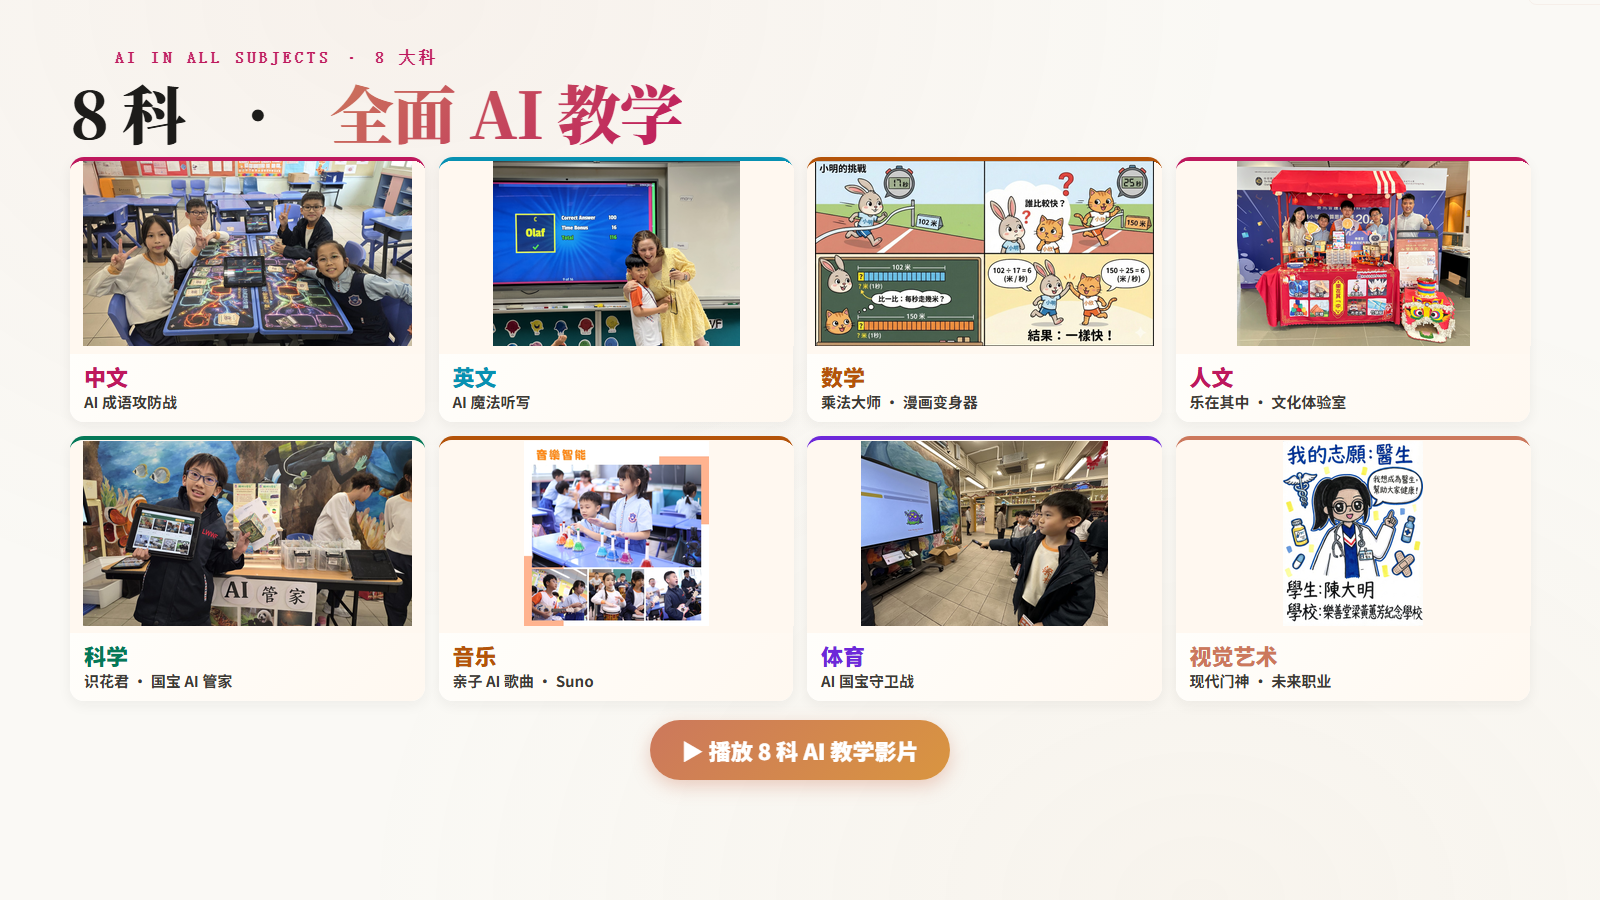
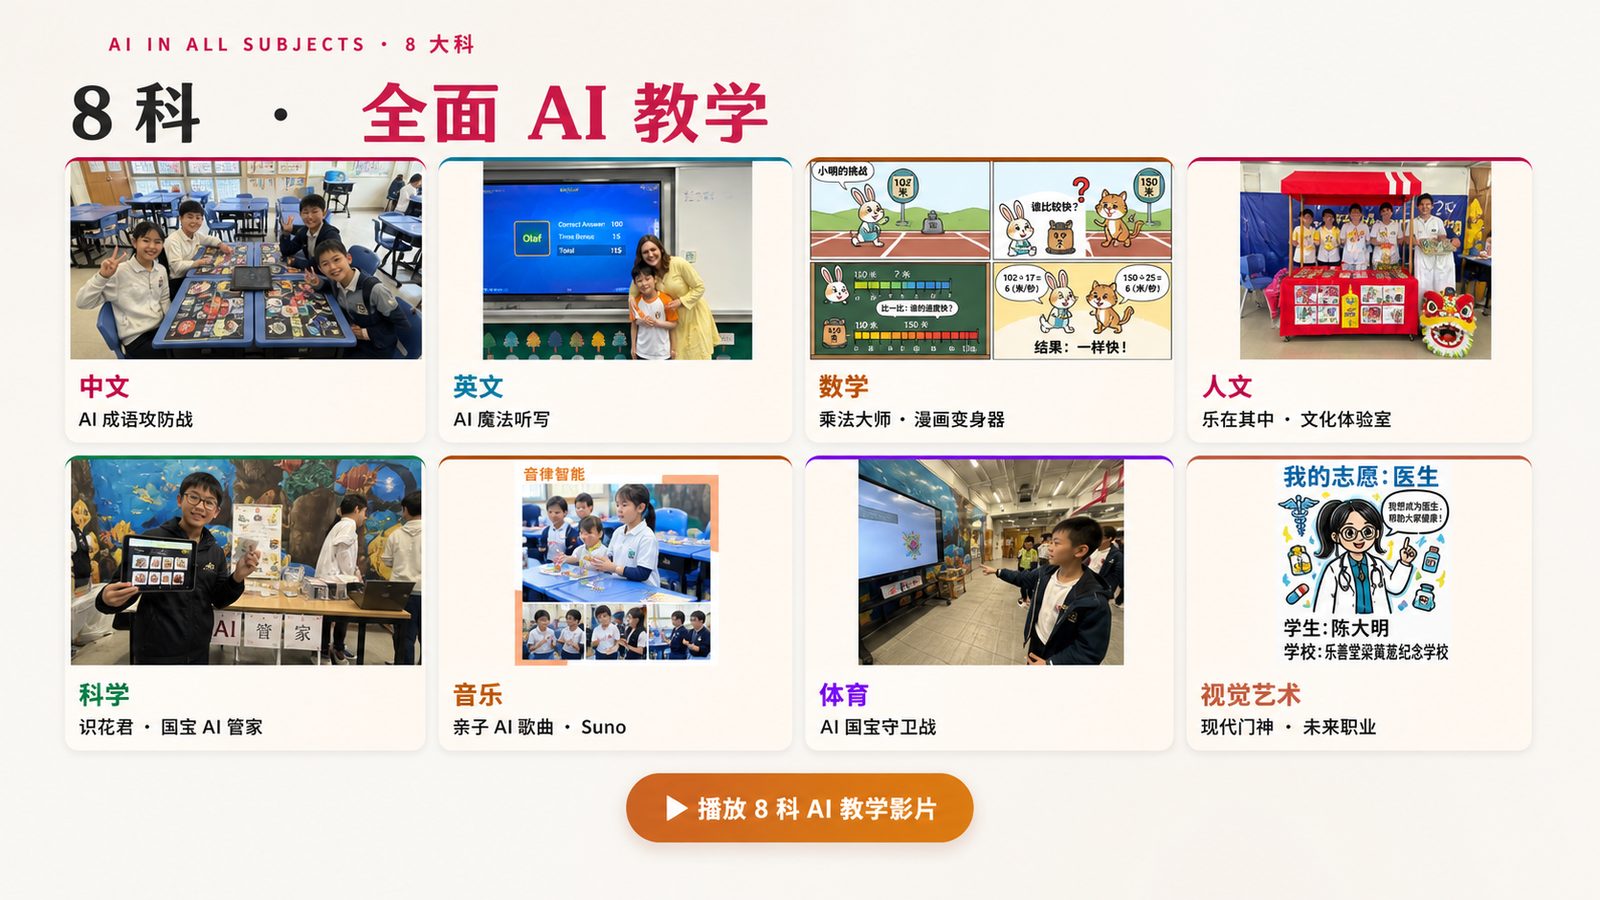
Fix English fullscreen layout and refresh slide 5 images

diff --git a/AI_INFINITY_v6-en.html b/AI_INFINITY_v6-en.html
@@ -1378,6 +1378,62 @@ body .slide-inner{
 .slide[data-slide="17"] .kicker {
   font-size: 20px !important; letter-spacing:3px !important;
 }
+
+/* English fullscreen safety fixes */
+body .slide[data-slide="1"] .slide-inner > * {
+  opacity:1 !important;
+}
+body .slide[data-slide="1"].active .slide-inner *,
+body .slide[data-slide="1"].active .slide-inner > *:not(.cover-orb) {
+  animation:none !important;
+  transform:none !important;
+  opacity:1 !important;
+}
+body .slide[data-slide="1"] .cover-orb {
+  opacity:.55 !important;
+  animation:orbPulse 7s ease-in-out infinite !important;
+}
+body .slide[data-slide="11"] .slide-inner {
+  gap:8px !important;
+  padding-top:64px !important;
+  padding-bottom:94px !important;
+}
+body .slide[data-slide="11"] h2.big {
+  font-size:47px !important;
+  line-height:1.08 !important;
+  letter-spacing:-1px !important;
+}
+body .slide[data-slide="11"] p.tagline {
+  font-size:23px !important;
+  line-height:1.35 !important;
+  margin:0 !important;
+}
+body .slide[data-slide="11"] .slide-inner > div[style*="grid-template-columns:1fr 1.4fr"] {
+  grid-template-columns:.92fr 1.48fr !important;
+  gap:16px !important;
+}
+body .slide[data-slide="11"] .slide-inner > div[style*="grid-template-columns:1fr 1.4fr"] > div:last-child {
+  gap:10px !important;
+}
+body .slide[data-slide="11"] .card {
+  padding:14px 16px !important;
+  overflow:visible !important;
+}
+body .slide[data-slide="11"] .card .kicker {
+  font-size:13px !important;
+  letter-spacing:2.5px !important;
+}
+body .slide[data-slide="11"] h3.lead {
+  font-size:25px !important;
+  line-height:1.18 !important;
+  margin-top:4px !important;
+}
+body .slide[data-slide="11"] .card .body,
+body .slide[data-slide="11"] .card p.body {
+  font-size:20px !important;
+  line-height:1.42 !important;
+  margin-top:6px !important;
+}
 </style>
 </head>
 <body>
@@ -1532,7 +1588,7 @@ body .slide-inner{
 <!-- ===== v6 SLIDE 5 — 8 Subjects with AI Teaching (IMAGE2 render) ===== -->
 <section class="slide" data-slide="5" data-section="MATRIX · 8 SUBJECTS · AI TEACHING">
   <div class="slide-inner" style="padding:0; gap:0; max-width:none; align-items:center; justify-content:center;">
-    <img src="photos/slide5_en.png?v=20260516-2" alt="AI Across 8 Subjects · Chinese, English, Math, Humanities, Science, Music, PE, Visual Arts" style="width:100%; height:100%; object-fit:contain;">
+    <img src="photos/slide5_en.png?v=20260517-image2" alt="AI Across 8 Subjects · Chinese, English, Math, Humanities, Science, Music, PE, Visual Arts" style="width:100%; height:100%; object-fit:contain;">
   </div>
 </section>
 

diff --git a/AI_INFINITY_v6-cn.html b/AI_INFINITY_v6-cn.html
@@ -1534,7 +1534,7 @@ body .slide-inner{
 <!-- ===== v6 SLIDE 5 — 8 科 AI 教学 (IMAGE2 render) ===== -->
 <section class="slide" data-slide="5" data-section="MATRIX · 8 科 AI 教学">
   <div class="slide-inner" style="padding:0; gap:0; max-width:none; align-items:center; justify-content:center;">
-    <img src="photos/slide5_cn.png?v=20260516-2" alt="8 科全面 AI 教学 · 中文、英文、数学、人文、科学、音乐、体育、视觉艺术" style="width:100%; height:100%; object-fit:contain;">
+    <img src="photos/slide5_cn.png?v=20260517-image2" alt="8 科全面 AI 教学 · 中文、英文、数学、人文、科学、音乐、体育、视觉艺术" style="width:100%; height:100%; object-fit:contain;">
   </div>
 </section>
 
